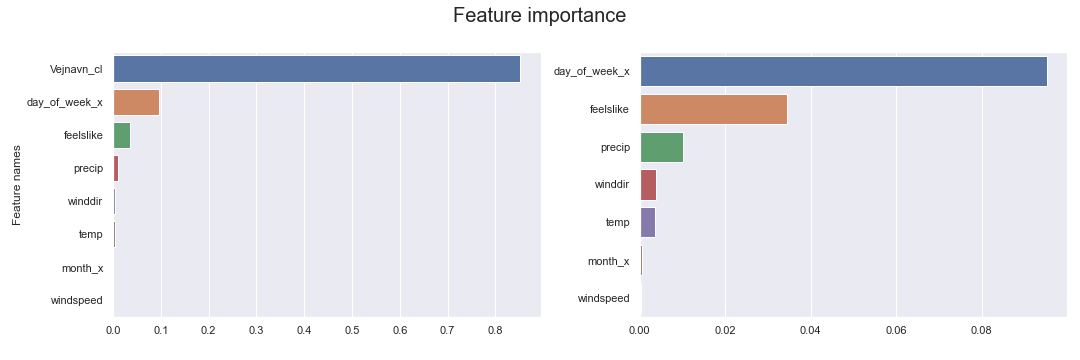
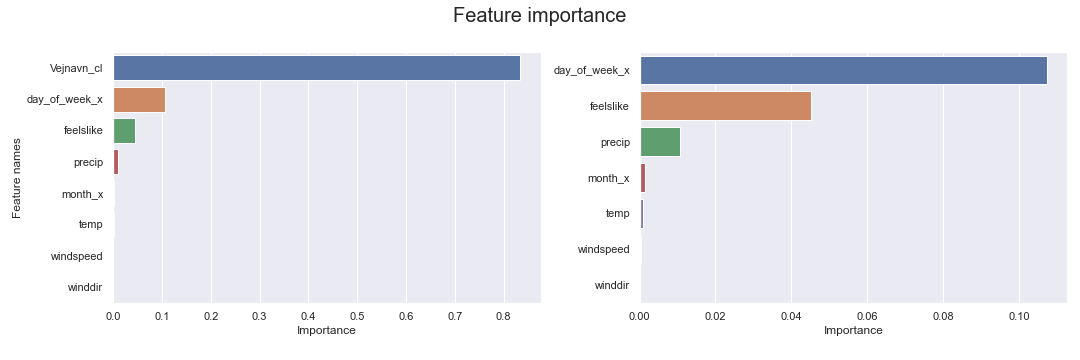
basic stats

diff --git a/index.html b/index.html
@@ -74,17 +74,39 @@
 								<div class="container">
 									<h3>The Data</h3>
 										<p>
-											The traffic data is gathered from <a href="https://www.opendata.dk/city-of-copenhagen/trafiktal" target="blank">Københavns Kommune</a>.
+											The traffic data is gathered from <a href="https://www.opendata.dk/city-of-copenhagen/faste-cykeltaellinger?fbclid=IwAR2s1HKWtWFHXUEuayvwQKqnvHqykKManJZn1ALWgLXtMGKfuNpqR8N2yBE" target="blank">Københavns Kommune</a>.
 											<br><br>
-											The traffic numbers are collected from counting posts located on various streets and bicycle routes around the city of Copenhagen. There are data from nine counters on bicycle routes, and from 14 posts on streets counting cars. The data is from the year 2014 and is ordered by date and hour. The interactive map below shows the locations of the counting posts.
-											<br><br>
-											We collected the weather data from the <a href="https://www.visualcrossing.com/weather/weather-data-services" target="blank">Visual Crossing Weather API</a>. It contains information about the weather for each day in 2014. The weather data consists of information about precipitation, temperature, windspeed and wind direction, UV index and humidity among other things. 
-											<br><br>
-											Our plan is to concatenate these two datasets and analyse them to get a deeper understanding of the traffic in Copenhagen, and try to predict the traffic based on the various factors in our data. 
-										</p>
-										<div class="iframewrapper ">
+											The traffic numbers are collected from counting posts located on various streets and bicycle routes around the city of Copenhagen. There are data from nine counters on bicycle routes, and from 14 posts on streets counting cars. The data is from the years 2012, 2013 and 2014 and is ordered by date and hour. The interactive map below shows the locations of the counting posts.
+											</p>
+											<div class="iframewrapper ">
 											<iframe width="800" height="450" src="map.html" frameborder="0" allowfullscreen></iframe>
-										</div>
+											</div>
+											<br><br>
+											We start by investigating the data to get better overview of it. In the boxplot below we have the overview of the bicycle data. It shows the distribution of the number of bicycles per day each year. We can see that 2013 has the most significant outlier indicating the busiest day for the entire data. We can also see that 2012 has the highest mean and 2013 has the lowest.
+								            <br><br>
+											<div id="slope" class="image">
+												<img src="images/box_bike.png" alt="Box bike" width="100%">
+											</div>
+											<br><br>
+											<p>Now we do the same for the car data, the boxplot below shows the distribution of the number of cars per day each year.  Overall we can conclude that the car data is evenly distributed over the three years of measurements, the statistical difference is insignificant in between years.</p>
+											<div id="slope" class="image">
+												<img src="images/box_car.png" alt="Box car" width="100%">
+											</div>
+											<br><br>
+											We collected the weather data from the <a href="https://www.visualcrossing.com/weather/weather-data-services" target="blank">Visual Crossing Weather API</a>. It contains information about the weather for each day over the three years. The weather data consists of information about precipitation, temperature, windspeed and wind direction, UV index and humidity among other things. 
+											<br><br>
+											To get a better overview of the weather data we create a heat map for perception, tempature and wind on 2014. Here below we can see the heat maps and how the weather was in the year of 2014. 
+											<div id="slope" class="image">
+												<img src="images/precip2014.png" alt="Percip" width="100%">
+											</div>
+											<div id="slope" class="image">
+												<img src="images/temp2014.png" alt="Temp" width="100%">
+											</div>
+											<div id="slope" class="image">
+												<img src="images/wind2014.png" alt="Wind" width="100%">
+											</div>
+
+											Our plan is to concatenate these two datasets and analyse them to get a deeper understanding of the traffic in Copenhagen, and try to predict the traffic based on the various factors in our data. 
 								</div>
 							</section>
 
@@ -193,20 +215,31 @@
 										<div>
 											<p>Next step is to find a model that fits out data and we see that it is a model based on decision trees. We can use a model like this to make predictions on bike traffic and also to give us more insights into what features are important when predicting bike traffic. In the figures below we can see the importance of features in our machine learning model. In the figure to the left we can see that the location or the name of the street the bikes are passing by is the far most important feature. In the figure to the right we can see the importance of other features. The second most important feature is the day of week. When looking at the weather feature feelslike is most important, from that we can interpret that depending on the tempature people feel has also some impact on if they decide to bike or not. 
 											</p>
-											<a href="#"><img src="images/feature_imp.png" alt=""></a>	
+											<div id="imp" class="image">
+												<center>
+												<img src="images/feature_imp.png" alt="Feature importance" width="100%">
+											</center>
+											</div>
 										</div>	
 										<div>
 											<p>We are interested in looking even further into feature importance and we decide to use shapley values. They are a widely used approach from cooperative game theory that come with desirable properties and are useful when looking deeper into the feature importance of a model.  The shaply values give a very similar result to the feature importance values and in the figure below we can see the mean absolute shaply values of each feature. </p>
+											<center>
 											<a href="#"><img src="images/shaply_val.png" alt=""></a>	
+										</center>
 										</div>
 										<div>
-											<p>Here below we have a different representation for the shaply values. This figure is more informative. We have different shaply values for different values of each feature. For example we can see that for higher percip we have lower shap value which means that high percip lowers the number of bikes passing by. Also for the feels like feature we can see that for higher values we have more traffic. </p>
-											<a href="#"><img src="images/summary_val.png" alt=""></a>	
+											<p>Here below we have a different representation for the shaply values <a href="https://shap.readthedocs.io/en/latest/example_notebooks/overviews/An%20introduction%20to%20explainable%20AI%20with%20Shapley%20values.html#additive_regression" target="blank"></a>. This figure is more informative. We have different shaply values for different values of each feature. For example we can see that for higher percip we have lower shap value which means that high percip lowers the number of bikes passing by. Also for the feels like feature we can see that for higher values we have more traffic. </p>
+											<center>
+											<a href="#"><img src="images/summary_val.png" alt=""></a>
+										</center>	
 										</div>
+	
 										<div>
 											<p>Lastly we want to visualize how a new datapoint is predicted.Since our model is a random forest regressor and based on decision trees. First we get a random sample for our data, below is the visualization of the branch that the datapoint goes through when predicting its output. The data point we want to predict is at Frederikssundsvej on a tuesday in August. Where the tempature feels like 17.5°C and perciption is 1.2. This decision tree predicts from thease features that the number of bikes that will pass by at this location on a day like this is 3052.
 											</p>
+											<center>
 											<a href="#"><img src="images/grein.svg" alt=""></a>	
+											</center>
 										</div>								
 									</article>
 									</div>
